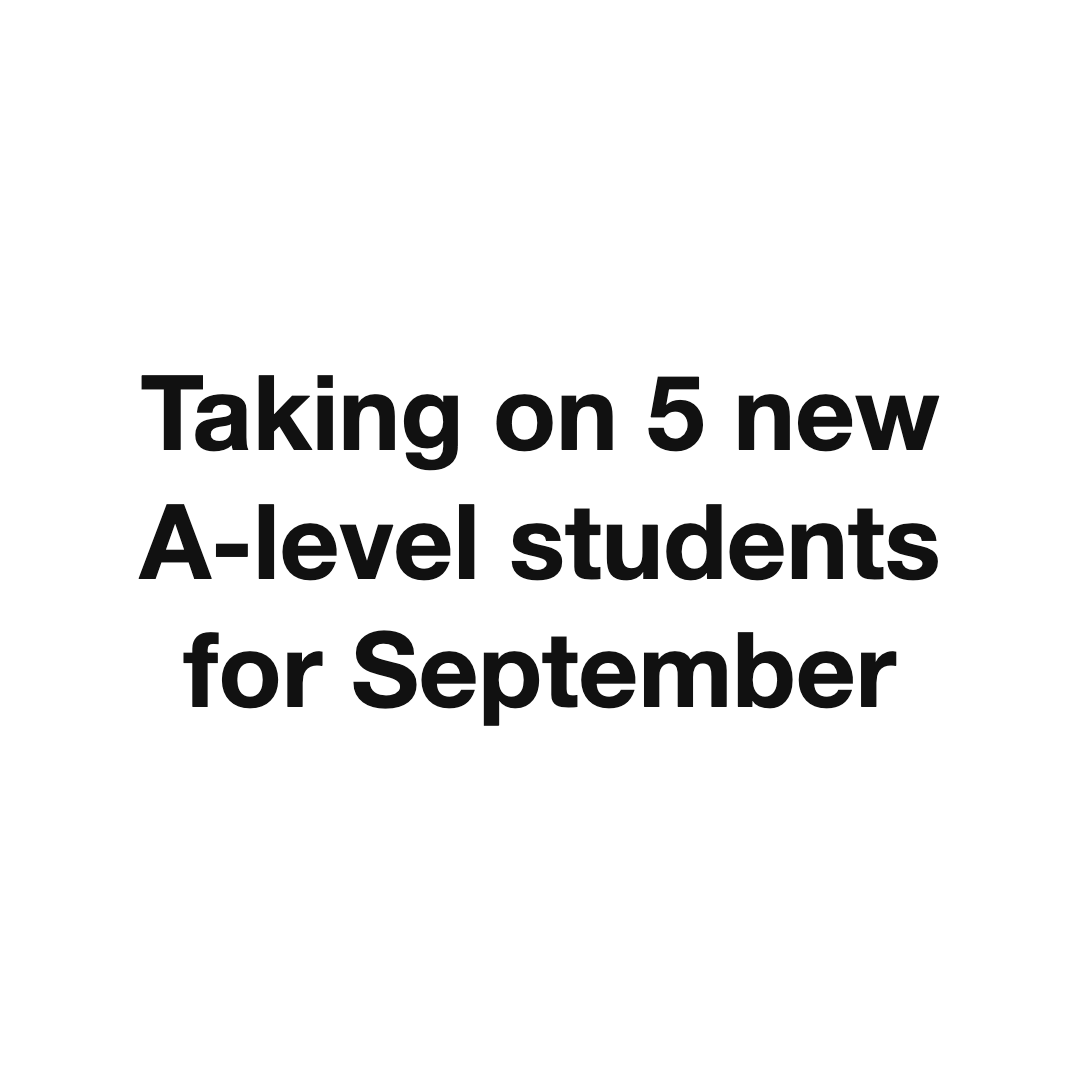
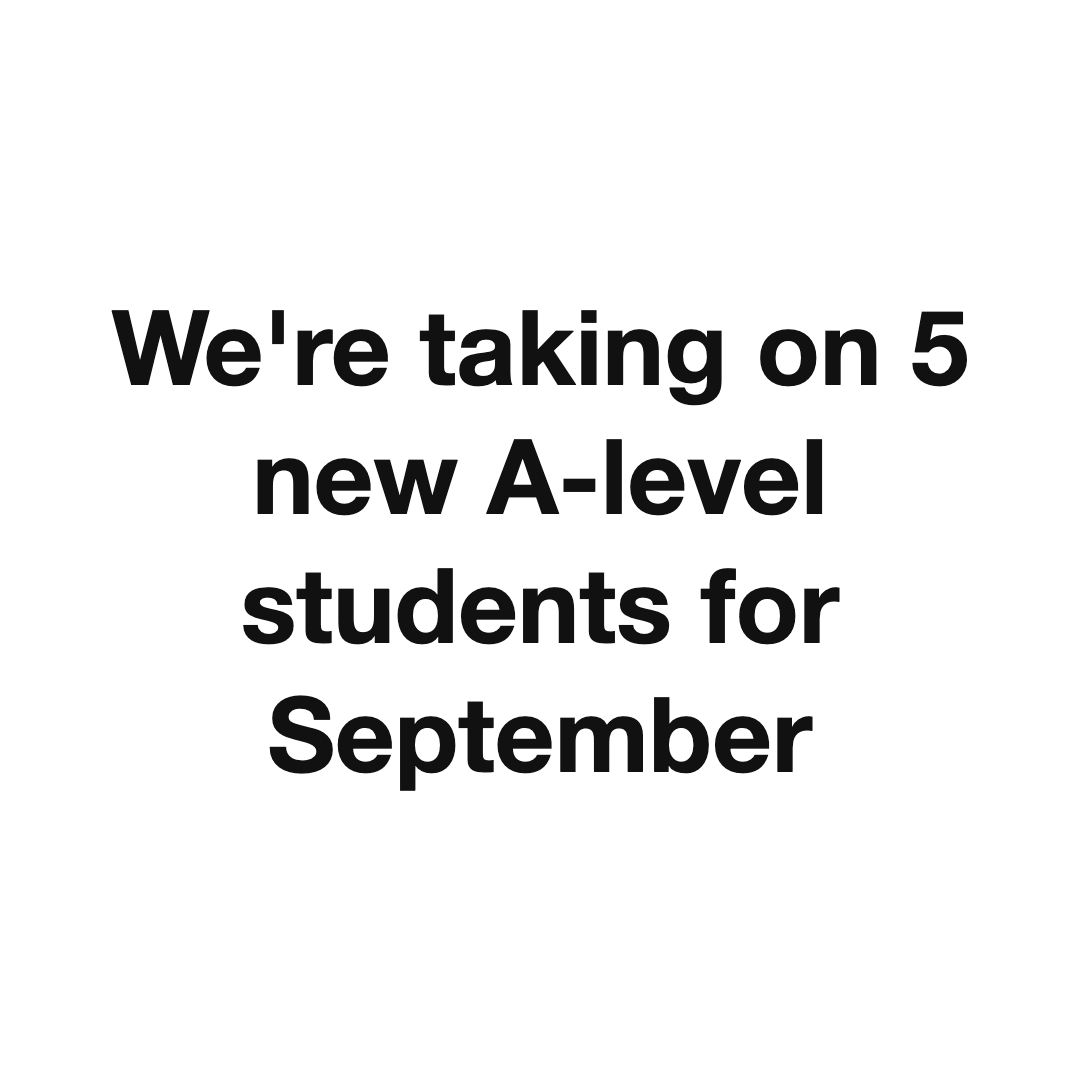
Face variants reworked: corner badge so the words stay the hero, Waleed centred in the circle; scarcity lines now 'We are taking on'

Changed region(s): [[0.0917, 0.275, 0.9167, 0.7333]]

diff --git a/content/meta-ads/2026-08-05-paid-callouts/src/gen.py b/content/meta-ads/2026-08-05-paid-callouts/src/gen.py
@@ -19,13 +19,17 @@ BASE_CSS = """
 html,body { width:1080px; height:1080px; overflow:hidden; }
 .ad { width:1080px; height:1080px; background:#ffffff; display:flex;
       flex-direction:column; align-items:center; justify-content:center;
-      padding:0 84px; text-align:center;
+      padding:0 84px; text-align:center; position:relative;
       font-family:-apple-system,'Helvetica Neue',Arial,sans-serif; }
+.ad.hasface { padding-bottom:150px; }
 h1 { font-weight:900; font-size:SIZEpx; line-height:1.24; color:#111111; }
 mark { background:#ffe872; padding:2px 10px; }
-.face { width:280px; height:280px; border-radius:50%; margin-top:64px; flex:none;
-      background-image:url('FACEURL'); background-size:cover;
-      background-position:46% 18%; border:8px solid #111111; }
+/* Corner badge: the words stay the hero, the face is the pattern interrupt.
+   Zoomed and positioned so Waleed's head sits centred in the circle. */
+.face { position:absolute; right:64px; bottom:64px;
+      width:250px; height:250px; border-radius:50%;
+      background-image:url('FACEURL'); background-size:250% auto;
+      background-position:54% 22%; border:9px solid #111111; }
 """
 
 def page(pre, key, suf, size, style):
@@ -37,9 +41,10 @@ def page(pre, key, suf, size, style):
         # Highlight wraps the key phrase only; trailing "?" belongs inside the key
         # (Waleed: a question mark left outside the highlight looks awkward).
         body = f"<h1>{pre} <mark>{key}</mark>{suf}</h1>"
+    cls = "ad hasface" if style == "face" else "ad"
     if style == "face":
         body += '<div class="face"></div>'
-    return f'<!DOCTYPE html><html><head><meta charset="utf-8"><style>{css}</style></head><body><div class="ad">{body}</div></body></html>'
+    return f'<!DOCTYPE html><html><head><meta charset="utf-8"><style>{css}</style></head><body><div class="{cls}">{body}</div></body></html>'
 
 def render(html, path):
     with tempfile.NamedTemporaryFile("w", suffix=".html", delete=False) as f:
@@ -50,9 +55,9 @@ def render(html, path):
     os.unlink(tmp)
 
 def size_for(pre, key, face=False):
+    """Face variants keep the words at full size: the badge sits in the corner,
+    so the text stays the hero (Waleed, 5 Aug)."""
     n = len(pre) + len(key)
-    if face:
-        return 74 if n > 45 else 84
     if n > 62: return 78
     if n > 45: return 88
     return 104
@@ -64,10 +69,10 @@ ROWS = [
     ("price-maths",     "Support your child in A-level Maths for", "a fifth of the cost", " of 1:1 tutoring", ["marker"]),
     ("price-biology",   "Support your child in A-level Biology for", "a fifth of the cost", " of 1:1 tutoring", ["marker"]),
     ("price-chemistry", "Support your child in A-level Chemistry for", "a fifth of the cost", " of 1:1 tutoring", ["marker"]),
-    ("five-general",    "Taking on", "5 new A-level students", " for September", ["marker","plain","face"]),
-    ("five-maths",      "Taking on 5 A-level Maths students", "aiming for A*s", "", ["marker"]),
-    ("five-biology",    "Taking on 5 A-level Biology students", "aiming for A*s", "", ["marker"]),
-    ("five-chemistry",  "Taking on 5 A-level Chemistry students", "aiming for A*s", "", ["marker"]),
+    ("five-general",    "We're taking on", "5 new A-level students", " for September", ["marker","plain","face"]),
+    ("five-maths",      "We're taking on 5 A-level Maths students", "aiming for A*s", "", ["marker"]),
+    ("five-biology",    "We're taking on 5 A-level Biology students", "aiming for A*s", "", ["marker"]),
+    ("five-chemistry",  "We're taking on 5 A-level Chemistry students", "aiming for A*s", "", ["marker"]),
     ("doctor-grades",   "Want", "a doctor", " to help improve your child's A-level grades?", ["marker","plain","face"]),
     ("doctor-predicted","Work with a doctor on your child's", "predicted grades?", "", ["marker","face"]),
     ("y12",             "Is your child going into", "Year 12?", "", ["marker","plain"]),
@@ -80,7 +85,7 @@ ROWS = [
 n = 0
 for i, (slug, pre, key, suf, styles) in enumerate(ROWS, 1):
     for style in styles:
-        size = size_for(pre, key, face=(style == "face"))
+        size = size_for(pre, key)
         render(page(pre, key, suf, size, style), OUT / f"{i:02d}-{slug}-{style}.png")
         n += 1
     print(f"{i:02d}-{slug}: {', '.join(styles)}")
@@ -91,7 +96,7 @@ DIAG = [
     ("15-general-face",        "Is your child studying for", "their A-levels?", ""),
 ]
 for name, pre, key, suf in DIAG:
-    render(page(pre, key, suf, size_for(pre, key, face=True), "face"), DIAG_OUT / f"{name}.png")
+    render(page(pre, key, suf, size_for(pre, key), "face"), DIAG_OUT / f"{name}.png")
     n += 1
     print(name)
 

diff --git a/content/meta-ads/2026-08-05-paid-callouts/COPY-PACK.md b/content/meta-ads/2026-08-05-paid-callouts/COPY-PACK.md
@@ -9,7 +9,7 @@ TWO THINGS ONLY WALEED CAN CONFIRM BEFORE LAUNCH:
    Primary Text A. Check the arithmetic against the live programme prices and what UK
    families actually pay for weekly 1:1 tutoring before this runs. If the honest ratio
    is a quarter, the images are one script-edit and re-render away.
-2. The scarcity number. "5 new A-level students" appears on 4 images and in Primary
+2. The scarcity number. "We're taking on 5 new A-level students" appears on 4 images and in Primary
    Text B. Make it the real number of September places, whatever that is. Scarcity that
    is true is urgency; scarcity that is invented is a refund request waiting to happen.
 
@@ -50,7 +50,7 @@ swap the path for `/summer-accelerators/` and keep the UTMs.)
 
 ## PRIMARY TEXT B: the scarcity angle (pairs with images 05 to 08)
 
-> I'm taking on 5 new A-level students for September.
+> We're taking on 5 new A-level students for September.
 >
 > I'm Dr Waleed Ahmad, an NHS doctor, and I have worked with over 1,000 A-level students. I keep intakes small deliberately: the whole point of my programmes is that nobody gets lost in the crowd, so the group sizes stay honest.
 >
